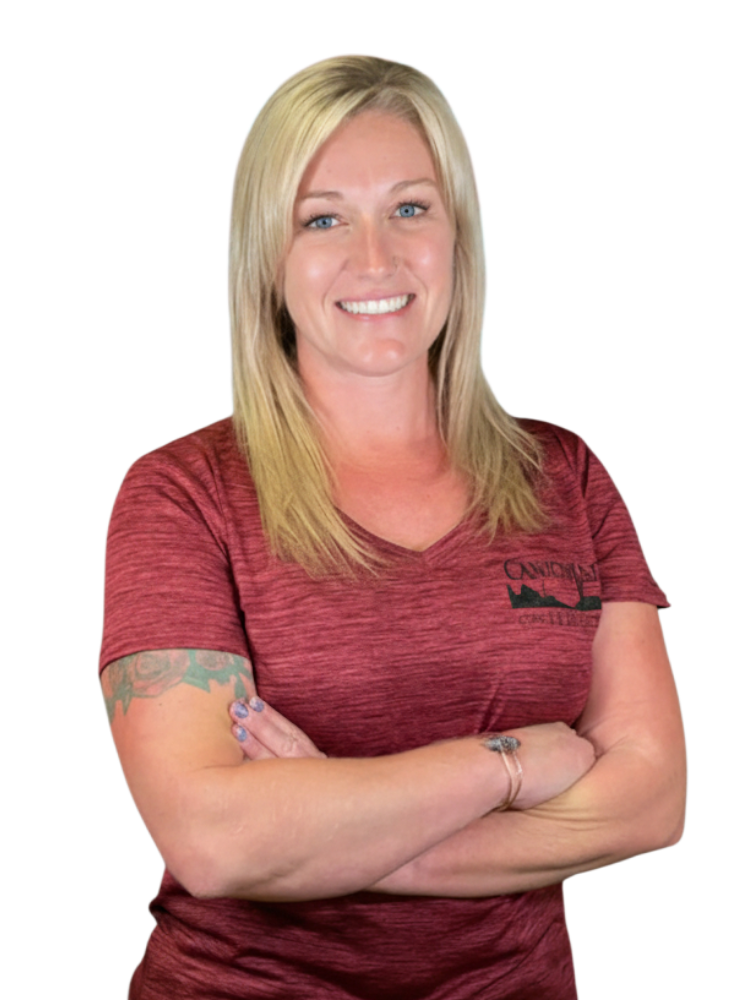
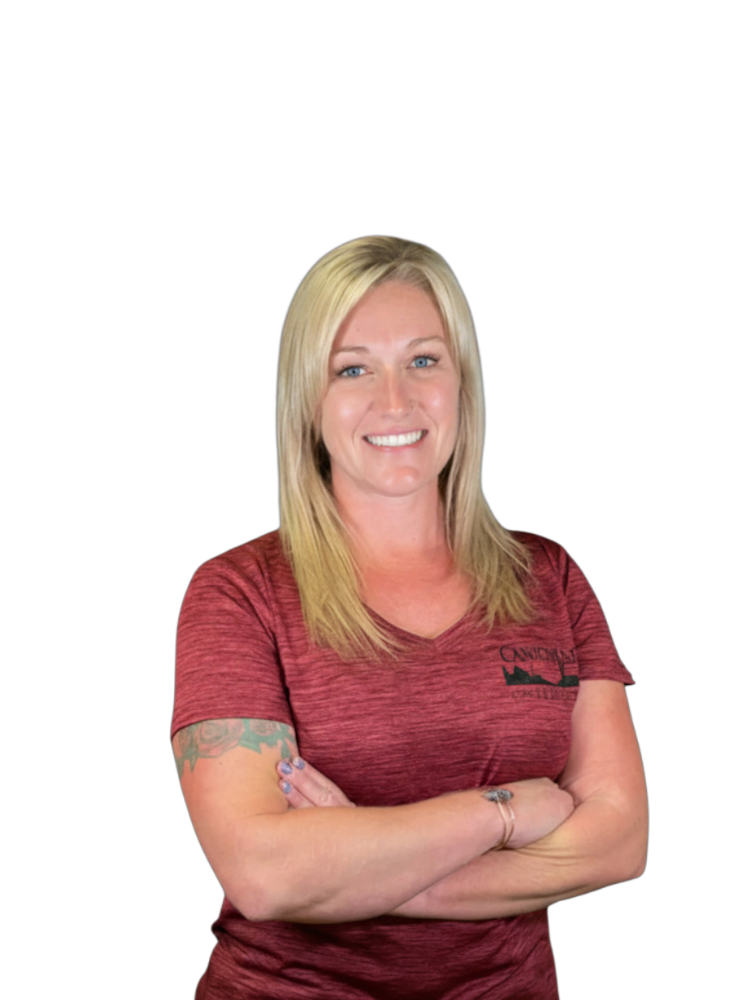
Fix leadership: add copper background and visible scrollbar

diff --git a/src/components/ui/LeadershipSection.module.css b/src/components/ui/LeadershipSection.module.css
@@ -52,21 +52,33 @@
 }
 
 .scrollContainer {
-    overflow-x: auto;
+    overflow-x: scroll;
     overflow-y: hidden;
-    scrollbar-width: none;
-    -ms-overflow-style: none;
+    scrollbar-width: thin;
+    scrollbar-color: var(--color-copper) rgba(255, 255, 255, 0.1);
     padding-left: max(var(--container-padding), calc((100vw - var(--container-width)) / 2 + var(--container-padding)));
+    padding-bottom: 1rem;
 }
 
 .scrollContainer::-webkit-scrollbar {
-    display: none;
+    height: 8px;
+}
+
+.scrollContainer::-webkit-scrollbar-track {
+    background: rgba(255, 255, 255, 0.1);
+    border-radius: 4px;
+}
+
+.scrollContainer::-webkit-scrollbar-thumb {
+    background: var(--color-copper);
+    border-radius: 4px;
 }
 
 .leadersTrack {
     display: flex;
     gap: 1.5rem;
     padding-right: var(--container-padding);
+    width: max-content;
 }
 
 .leaderCard {
@@ -82,12 +94,16 @@
     border-radius: 8px;
     overflow: hidden;
     position: relative;
+    background-image: var(--copper-bg);
+    background-size: cover;
+    background-position: center;
 }
 
 .photoContainer img {
     width: 100%;
     height: 100%;
     object-fit: cover;
+    object-position: top center;
 }
 
 .photoPlaceholder {

diff --git a/src/components/ui/LeadershipSection.jsx b/src/components/ui/LeadershipSection.jsx
@@ -18,6 +18,9 @@ import koreyHines from '../../assets/leadership/Korey-Hines.png';
 import ashleyUngaro from '../../assets/leadership/Ashley-Ungaro.png';
 import randyPerry from '../../assets/leadership/Randy-Perry.png';
 
+// Copper background for transparent headshots
+import copperBg from '../../assets/leadership/copper-bg.jpg';
+
 const leaders = [
     { name: 'Keven Ott', title: 'Owner', photo: kevenOtt },
     { name: 'Joe Juelfs', title: 'Owner', photo: joeJuelfs },
@@ -78,7 +81,10 @@ const LeadershipSection = () => {
                 <div className={styles.leadersTrack}>
                     {leaders.map((leader, index) => (
                         <div key={index} className={styles.leaderCard}>
-                            <div className={styles.photoContainer}>
+                            <div
+                                className={styles.photoContainer}
+                                style={{ backgroundImage: `url(${copperBg})` }}
+                            >
                                 {leader.photo ? (
                                     <img src={leader.photo} alt={leader.name} />
                                 ) : (
